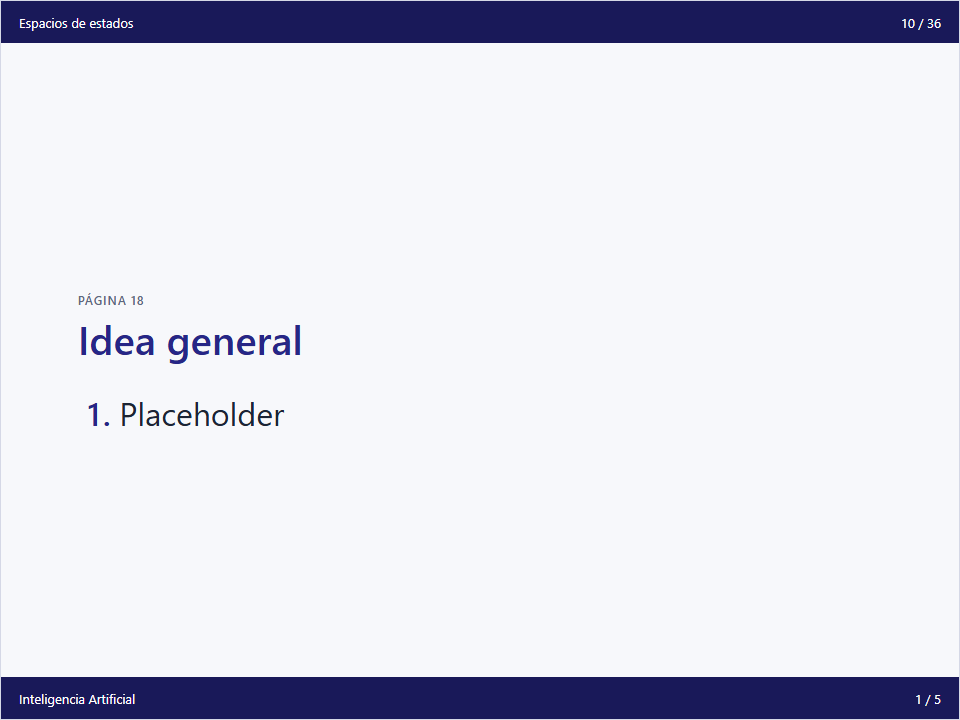
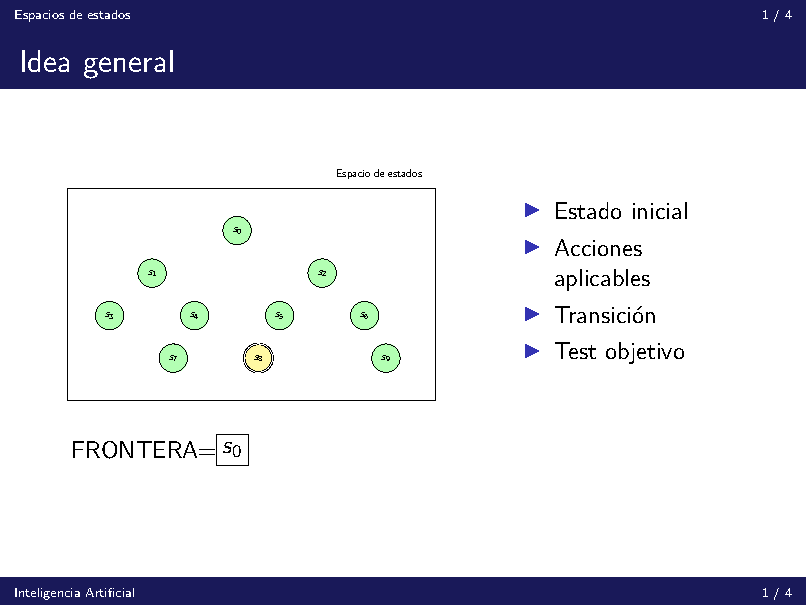
Rebuild search-in-state-space slides from the Beamer frame
Replace the placeholder slides with the four overlay stages of the
state-space frame (initial state, applicable actions, transition,
goal test), and remove the unused fifth slide.

diff --git a/pages/search-in-state-space.md b/pages/search-in-state-space.md
@@ -11,33 +11,28 @@ permalink: /teaching/courses/search-in-state-space/
 <section class="scrolly" aria-label="Search in a state space">
   <div class="scrolly-sticky">
     <div class="scrolly-figure">
-      <img data-step="0" class="is-active" src="{{ site.baseurl }}/assets/images/teaching/state-space-18.png" alt="Slide, page 18">
-      <img data-step="1" src="{{ site.baseurl }}/assets/images/teaching/state-space-19.png" alt="Slide, page 19">
-      <img data-step="2" src="{{ site.baseurl }}/assets/images/teaching/state-space-20.png" alt="Slide, page 20">
-      <img data-step="3" src="{{ site.baseurl }}/assets/images/teaching/state-space-21.png" alt="Slide, page 21">
-      <img data-step="4" src="{{ site.baseurl }}/assets/images/teaching/state-space-22.png" alt="Slide, page 22">
+      <img data-step="0" class="is-active" src="{{ site.baseurl }}/assets/images/teaching/state-space-18.png" alt="Estado inicial: la frontera contiene solo s0">
+      <img data-step="1" src="{{ site.baseurl }}/assets/images/teaching/state-space-19.png" alt="Acciones aplicables: una flecha de s0 a s2, y la frontera es s0, s2">
+      <img data-step="2" src="{{ site.baseurl }}/assets/images/teaching/state-space-20.png" alt="Transición: flechas de s0 a s2 y de s2 a s5, y la frontera es s0, s2, s5">
+      <img data-step="3" src="{{ site.baseurl }}/assets/images/teaching/state-space-21.png" alt="Test objetivo: el camino llega a s8, y la frontera es s0, s2, s5, s8">
     </div>
   </div>
   <div class="scrolly-steps">
     <div class="scrolly-step is-active" data-step="0">
       <p>Página 18. Idea general.</p>
-      <p>1. Placeholder</p>
+      <p>Estado inicial. La frontera contiene solo s₀.</p>
     </div>
     <div class="scrolly-step" data-step="1">
       <p>Página 19. Idea general.</p>
-      <p>2. Placeholder</p>
+      <p>Acciones aplicables. Desde s₀ se alcanza s₂.</p>
     </div>
     <div class="scrolly-step" data-step="2">
       <p>Página 20. Idea general.</p>
-      <p>3. Placeholder</p>
+      <p>Transición. Desde s₂ se alcanza s₅.</p>
     </div>
     <div class="scrolly-step" data-step="3">
       <p>Página 21. Idea general.</p>
-      <p>4. Placeholder</p>
-    </div>
-    <div class="scrolly-step" data-step="4">
-      <p>Página 22. Idea general.</p>
-      <p>5. Placeholder</p>
+      <p>Test objetivo. Desde s₅ se alcanza s₈.</p>
     </div>
   </div>
 </section>
